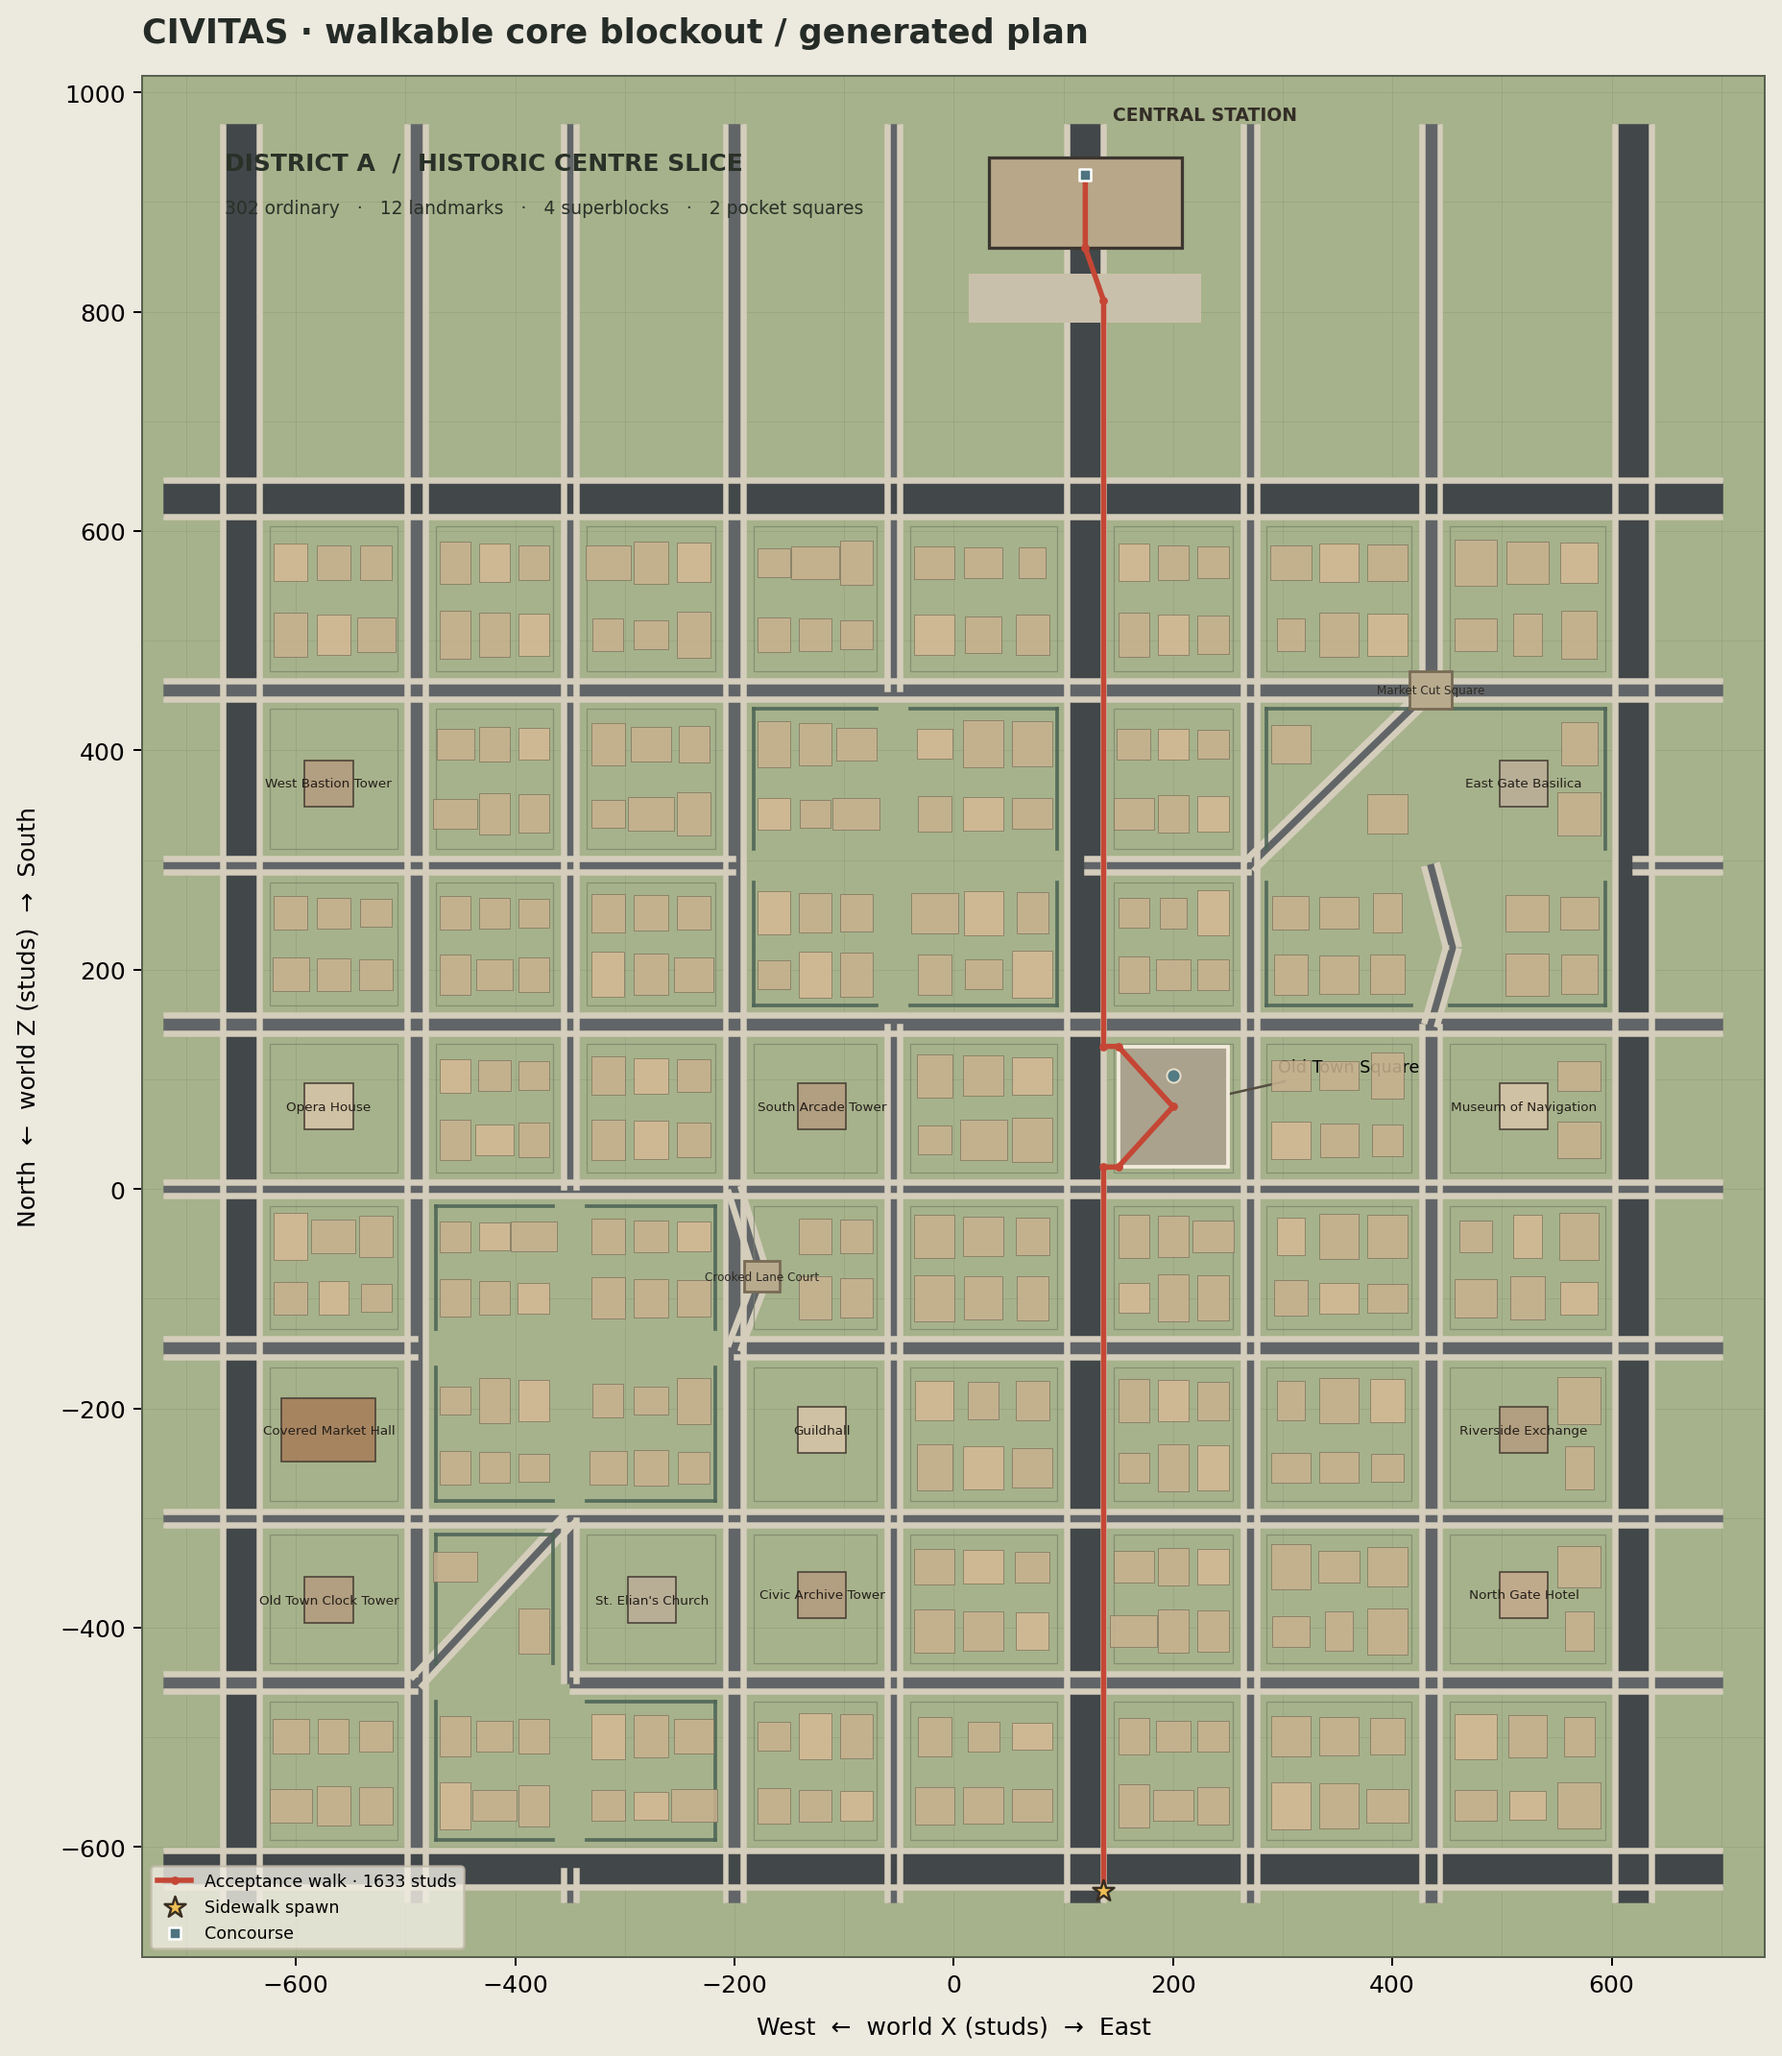
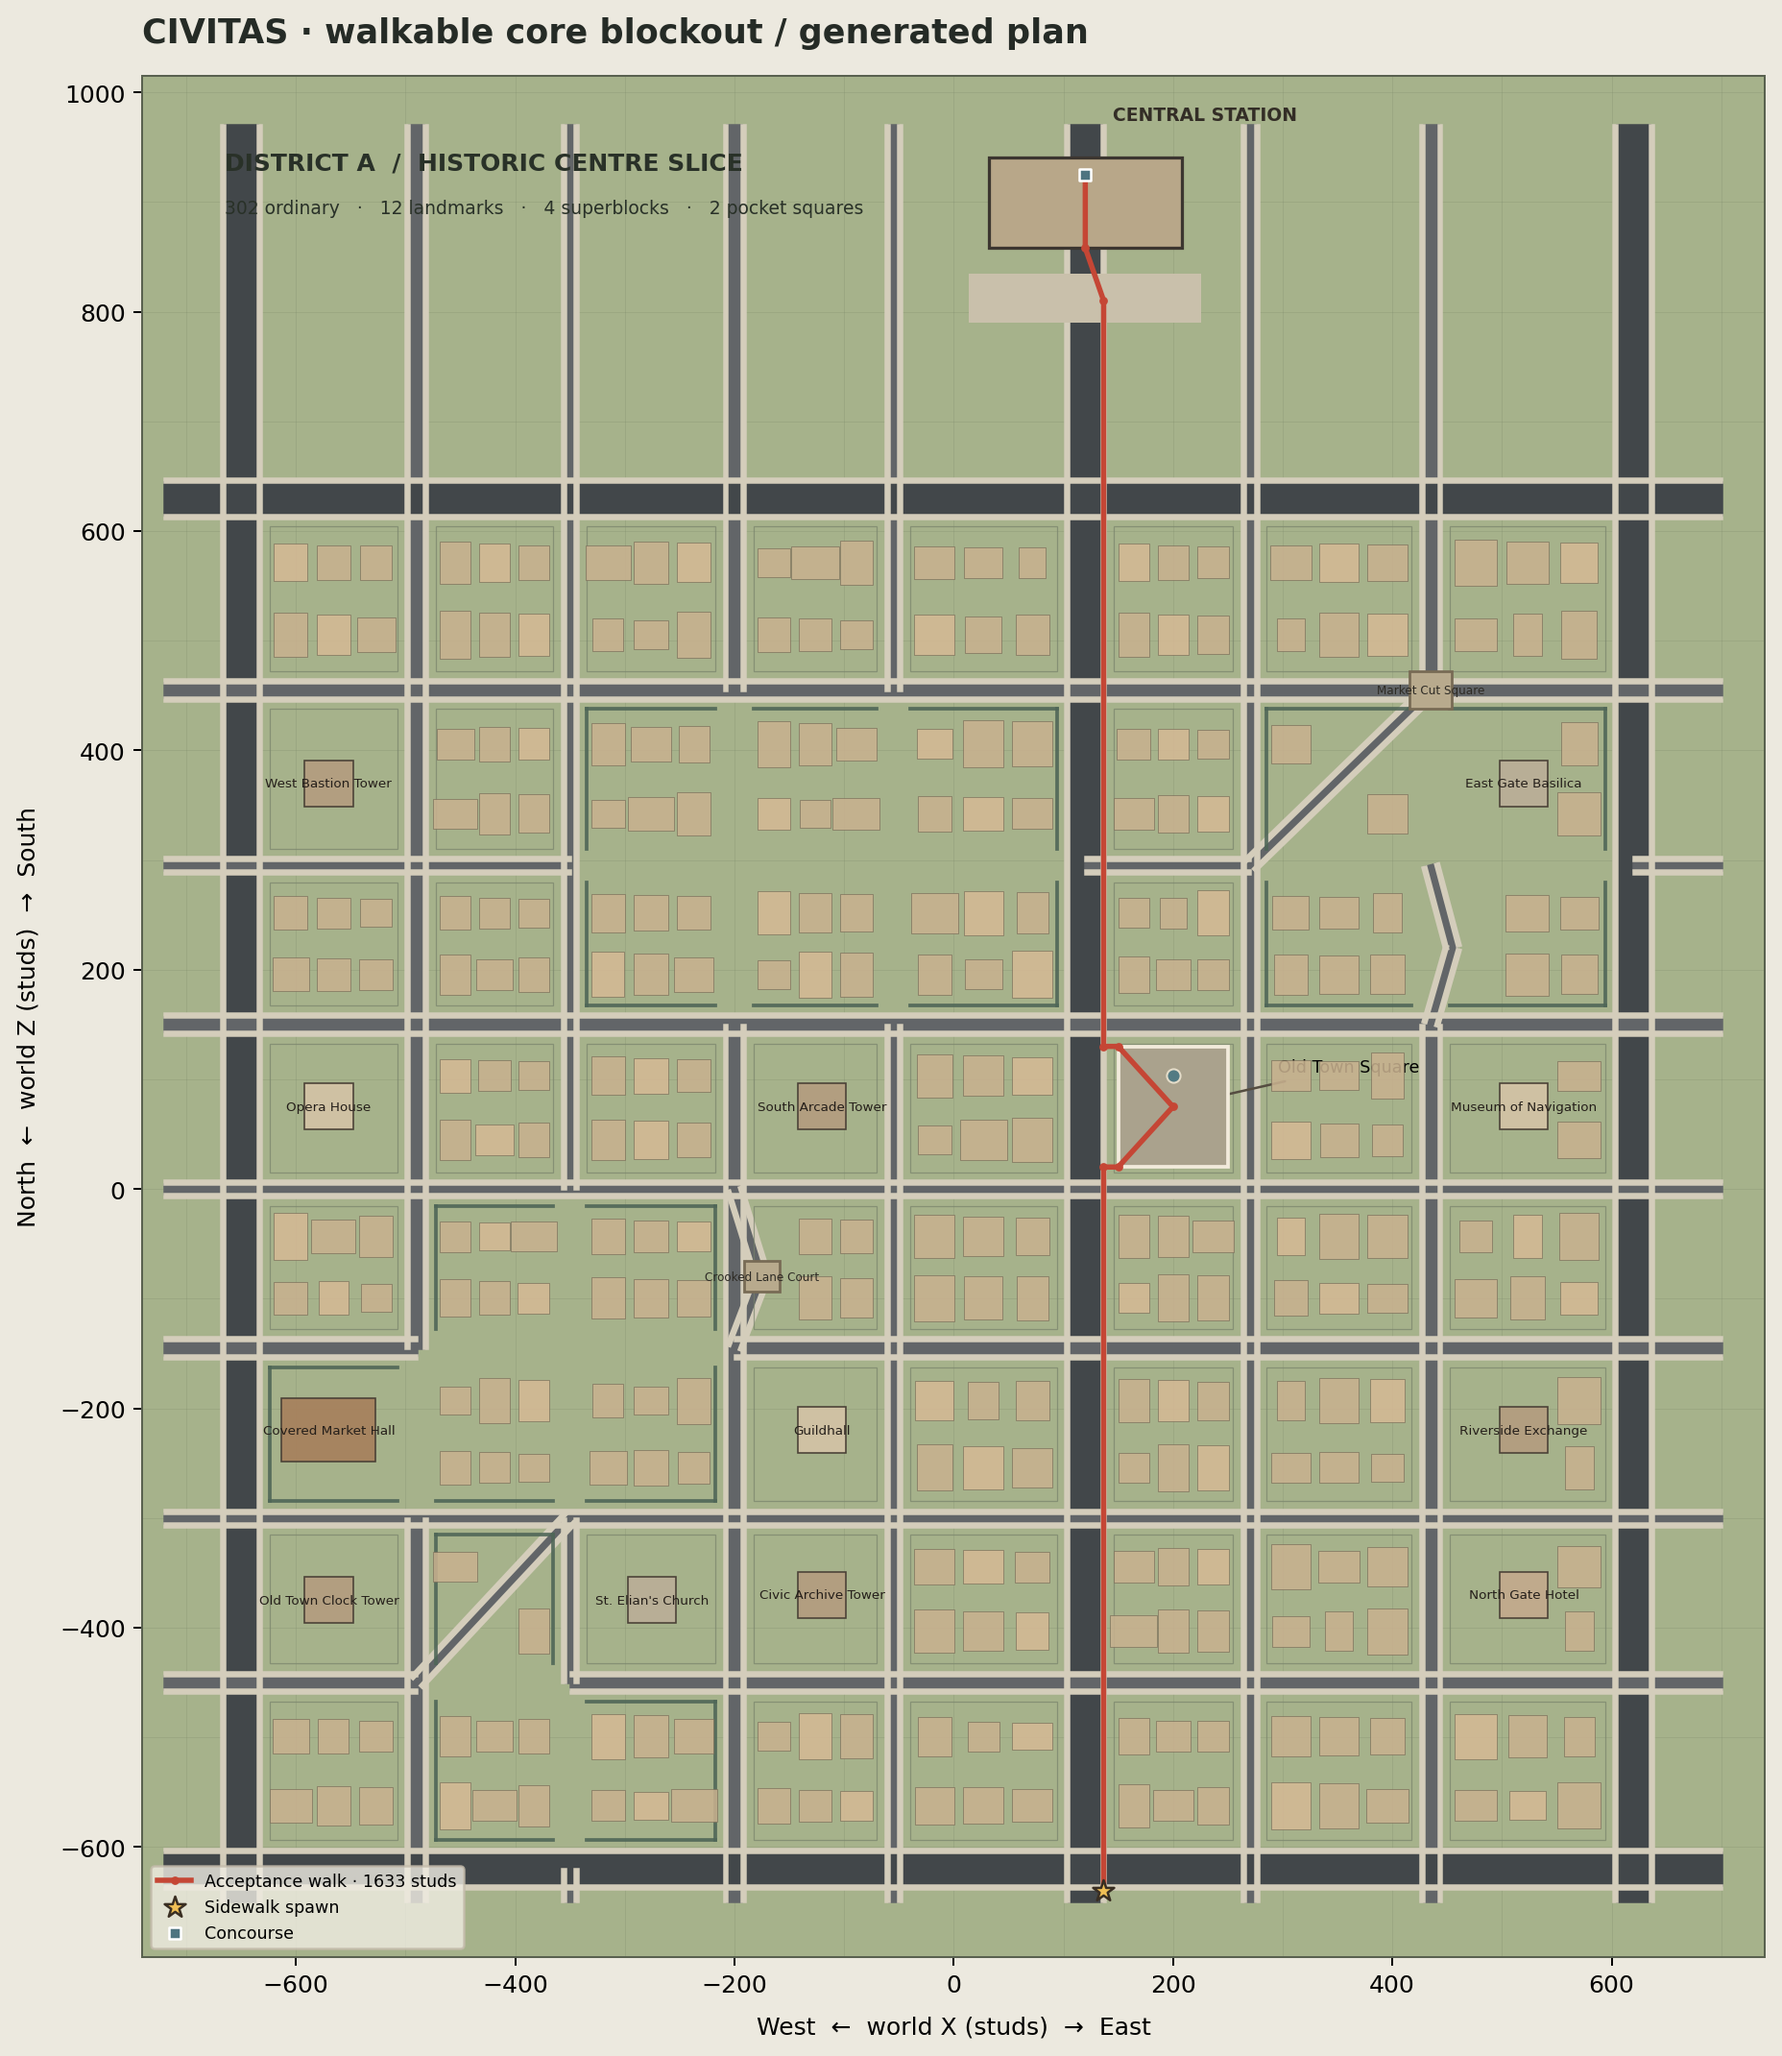
world: enlarge irregular superblock footprints

Changed region(s): [[0.3125, 0.3391, 0.4375, 0.4932], [0.2188, 0.6474, 0.25, 0.7398]]

diff --git a/tools/world/README.md b/tools/world/README.md
@@ -7,7 +7,7 @@ This folder owns the reproducible city-plan exporter, tests, renders, and the ge
 Coordinates are Roblox studs, with world `Y` vertical. This is a bounded slice of District A, not a claim to have built the 10,000 × 8,000-stud city:
 
 - Collidable ground: 1,540 × 1,880 studs, centered at `(X=0, Z=115)`, top at `Y=0` (bounds `X=[-770,770]`, `Z=[-825,1055]`).
-- Historic core: 9 north-south × 9 east-west street lines, uneven 140–185-stud neighbor spacings, and 81 intersections. Four merged superblocks collapse 15 grid cells into 4 irregular parcels; 14 shared road runs are removed inside their footprints, including one L-shaped block. Arterials remain on the outer ring and station approach.
+- Historic core: 9 north-south × 9 east-west street lines, uneven 140–185-stud neighbor spacings, and 81 intersections. Four merged superblocks collapse 18 grid cells into 4 irregular parcels; 18 shared road runs are removed inside their footprints, including an L-shaped five-cell court and a 3×2 guild block. Arterials remain on the outer ring and station approach.
 - Carriageways: 30-stud outer/station arterials, 13-stud locals and 8.5-stud lanes at 140–150-stud intervals; sidewalks are 3.5 studs each side. Six narrow diagonal/jog segments cut across the network; their landings reserve building-free corridors. Low curbs are 0.65 wide × 0.28 high, with 11-stud radius cutbacks at intersections.
 - Three squares: the 100 × 110-stud main square at `(200,75)`, plus two smaller pocket squares at the Crooked Lane elbow and Market Cut junction. The main square is inside an irregular block, not an arterial cadence. Station forecourt begins at `Z=810`; entry at `Z=858`; concourse walk floor centered at `Z=925`.
 - The route is generated as connected physical walk links: east station-avenue sidewalk spawn → narrow-lane grid → square → station forecourt → concourse. The test-measured centerline is **1,633.0 studs**.
@@ -24,13 +24,13 @@ From `lune run tools/world/export_plan.luau` (same `CityGenerator` consumed by t
 | Ordinary blockout buildings | 302 |
 | Landmark-scale buildings | 12 |
 | Total massings | 314 |
-| Blocks / merged superblocks / street segments / intersections | 53 / 4 / 32 / 81 |
-| Extra pocket squares / removed internal street runs | 2 / 14 |
-| Exact planned Roblox `BasePart` count | **1,897** |
+| Blocks / merged superblocks / street segments / intersections | 50 / 4 / 34 / 81 |
+| Extra pocket squares / removed internal street runs | 2 / 18 |
+| Exact planned Roblox `BasePart` count | **1,915** |
 | Part budget | 25,000 |
 | Route centerline | **1,633.0 studs** |
 
-The 1,897 figure is an exact count against the current builder recipe (ordinary ground/upper/roof pieces plus frontage accents, landmark ground/upper/crowns, segmented curb returns, diagonal-lane surfaces, plaza paving, ground, station shell, route, and spawn); the Roblox builder also counts actual `BasePart` descendants on startup and stores `GeneratedPartCount`. No Studio runtime count has been observed here.
+The 1,915 figure is an exact count against the current builder recipe (ordinary ground/upper/roof pieces plus frontage accents, landmark ground/upper/crowns, segmented curb returns, diagonal-lane surfaces, plaza paving, ground, station shell, route, and spawn); the Roblox builder also counts actual `BasePart` descendants on startup and stores `GeneratedPartCount`. No Studio runtime count has been observed here.
 
 Landmarks: Old Town Clock Tower, St. Elian's Church, Civic Archive Tower, North Gate Hotel, Covered Market Hall, Guildhall, Riverside Exchange, Opera House, South Arcade Tower, Museum of Navigation, West Bastion Tower, and East Gate Basilica.
 
